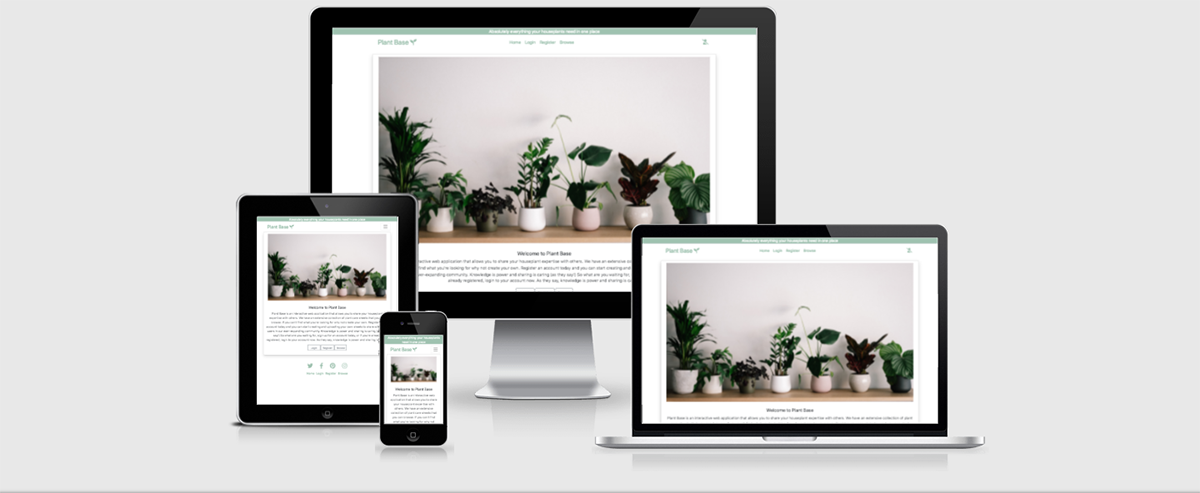
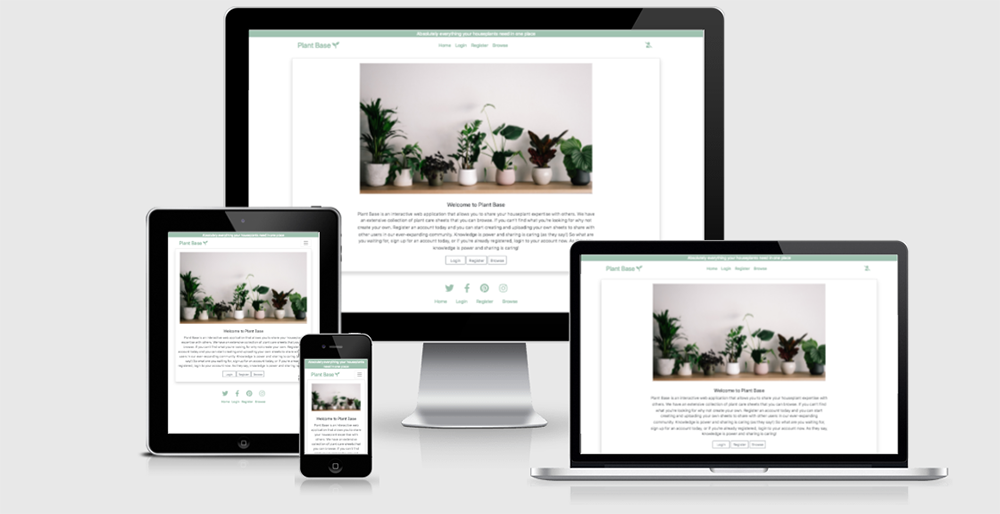
Changed README.md and TESTING.md, tidying up

diff --git a/templates/index.html b/templates/index.html
@@ -2,7 +2,7 @@
 {% block content %}
 <div class="container card bg-white shadow">
     <div class="row">
-        <div class=" text-black col text-center">
+        <div class=" text-black col-lg-8 mt-2 mx-auto text-center">
             <img src="/static/images/annie-spratt-cropped16x9.jpg" alt="image of houseplants" class="homepage-image">
         </div>
     </div>
@@ -10,7 +10,7 @@
             <div class="row">
             
 
-                <div class="mx-auto col card-box mt-2">
+                <div class="mx-auto col col-lg-8 card-box mt-2">
                     <h5 class="card-title text-center pt-2">Welcome to Plant Base</h5>
                     <p class="card-text text-center">
                         Plant Base is an interactive web application that allows you to share your houseplant expertise with others. 

diff --git a/README.md b/README.md
@@ -1,8 +1,30 @@
-README.md
-![Planr Base Mockup](static/images/am_I_responsive.png)
+# Plant Base    
+![Plant Base Mockup](static/images/am_I_responsive.png)
 
 
 [View deployed site here](http://plant-base-project.herokuapp.com/home)
+
+## __Table of Contents__
+1. [Introduction](#introduction)
+2. [User Experience](#user-experience)
+3. [User Experience](#user-experience)
+   - [User Stories](#user-stories)
+   - [Design Objectives](#design-objectives)
+   - [Design Choices](#design-choices)
+
+4. [Initial Planning](#initial-planning)
+   - [Wireframes](#wireframes)
+   - [Site Layout](#site-layout)
+   - [Database](#database)
+
+5. [Features](features)
+6. [Features left to implement](#features-left-to-implement)
+7. [Testing](#testing)
+8. [Deployment](#deployment)
+9. [Technologies Used](#technologies-used)
+10. [Credits](#credits)
+11. [Media and Content](#media-and-content)
+12. [Acknowledgements](#acknowledgements)
 
 ## Introduction
 The last 18 months have seen many of us confined to our homes for extended periods of time, and increasingly our homes are in urban settings with little or no green outside space. These are some of the reasons attributed to a recent surge in interest in houseplants. There are numerous benefits to keeping houseplants: they are relatively inexpensive; they allow us to connect with nature, they satisfy our primal urges to care and nurture, and in the uncertain times created by the global pandemic, they offer a sense of calm reassurance to many people. Best of all, you can talk to them  (and of course, they don’t answer you back!)
@@ -84,28 +106,28 @@ Here I will address the aims and goals of the application from both the perspect
 * Buttons - The sites buttons will all be Boostrap's 'Outline Secondary', again they have a neutrality that will compliment rather than distract from the sites color 
 * I have used Bootstrap's modals, cards, alerts and forms and responsive navbar, throughout the site to achieve a uniformity of design that is visually pleasing and responsive.
 
-### Initial Planning
+## Initial Planning
 
-#### Wireframes
+### Wireframes
 
 My initial wireframes can be seen [here](static/images/wireframes)
 
 I have largely stuck to my initial vision for the site in terms of the layout and design. Some features were not implemented due to practical time constraints. I detail this further in the 'features left to implement' section.
 
-#### Site Layout
+### Site Layout
 
 My initial layout and functionality plans can be seen [here](static/images/site_maps).
 These were really useful in developing and building the site. Again not all features were implemented and I elaborate on this in the features section.
 
-#### Database 
+### Database 
 
 I choose to use [MongoDB](https://www.mongodb.com/) to store and access all the data for the site.  
 My database schea plans can be viewed [here](static/images/site_maps).
 Initially I had planned to have two collections, one for the plant sheets and one for users, but this was expanded to three to include a categories collection in order to better group the sheets. For the purposes of this site, categories could have been part of the sheets collections, but with an eye on future facilitate scalibility it was added as a seperate collection.  MongoDB was the right choice for my purposes as there is not a lot of relational data sets, and the flexibility it offers is key.
 
-### Features
-
-#### Site Header and Footer
+## Features
+&nbsp; &nbsp; &nbsp; &nbsp; &nbsp; &nbsp; &nbsp; &nbsp; &nbsp; &nbsp; &nbsp; &nbsp; &nbsp; &nbsp; &nbsp; &nbsp; &nbsp; &nbsp; &nbsp; &nbsp; &nbsp; &nbsp; &nbsp; &nbsp;&nbsp; &nbsp; &nbsp; &nbsp; &nbsp; &nbsp; &nbsp; &nbsp; &nbsp; &nbsp; &nbsp; &nbsp; &nbsp; &nbsp; &nbsp; &nbsp; &nbsp; &nbsp; &nbsp; &nbsp; &nbsp; &nbsp; &nbsp; &nbsp; &nbsp; &nbsp; &nbsp; &nbsp; &nbsp; &nbsp; &nbsp;[Back to Top](#table-of-contents)
+### Site Header and Footer
 * Strap at the top of the site to frame he page and to deliver a headline of the sites aim
 * Site logo in the top left that links to the home page
 * Navigation menu - items change dependent on whether the user is logged in
@@ -265,7 +287,7 @@ web: python app.py
 ```
 
 * Push these 2 files to Github
-
+&nbsp; &nbsp; &nbsp; &nbsp; &nbsp; &nbsp; &nbsp; &nbsp; &nbsp; &nbsp; &nbsp; &nbsp; &nbsp; &nbsp; &nbsp; &nbsp; &nbsp; &nbsp; &nbsp; &nbsp; &nbsp; &nbsp; &nbsp; &nbsp;&nbsp; &nbsp; &nbsp; &nbsp; &nbsp; &nbsp; &nbsp; &nbsp; &nbsp; &nbsp; &nbsp; &nbsp; &nbsp; &nbsp; &nbsp; &nbsp; &nbsp; &nbsp; &nbsp; &nbsp; &nbsp; &nbsp; &nbsp; &nbsp; &nbsp; &nbsp; &nbsp; &nbsp; &nbsp; &nbsp; &nbsp;[Back to Top](#table-of-contents)
 ### Creating the Heroku App
 
 * Login to your Heroku account
@@ -309,7 +331,6 @@ In order to clone and run this project locally, you will need to follow these st
 Full details of these summarised steps can be found [here](https://docs.github.com/en/github/creating-cloning-and-archiving-repositories/cloning-a-repository)
 
 
-
 ## Technologies Used
 
 * HTML 5 
@@ -342,8 +363,7 @@ Full details of these summarised steps can be found [here](https://docs.github.c
 * [w3C](https://jigsaw.w3.org/css-validator/) 
 * [JSHint](https://jshint.com/)
 * [AutoPrefixer](https://autoprefixer.github.io/) 
-
-
+&nbsp; &nbsp; &nbsp; &nbsp; &nbsp; &nbsp; &nbsp; &nbsp; &nbsp; &nbsp; &nbsp; &nbsp; &nbsp; &nbsp; &nbsp; &nbsp; &nbsp; &nbsp; &nbsp; &nbsp; &nbsp; &nbsp; &nbsp; &nbsp;&nbsp; &nbsp; &nbsp; &nbsp; &nbsp; &nbsp; &nbsp; &nbsp; &nbsp; &nbsp; &nbsp; &nbsp; &nbsp; &nbsp; &nbsp; &nbsp; &nbsp; &nbsp; &nbsp; &nbsp; &nbsp; &nbsp; &nbsp; &nbsp; &nbsp; &nbsp; &nbsp; &nbsp; &nbsp; &nbsp; &nbsp;[Back to Top](#table-of-contents)
 
 ## Credits
 
@@ -355,6 +375,8 @@ Full details of these summarised steps can be found [here](https://docs.github.c
   * [Bootstrap](https://getbootstrap.com/)
   * [Stack Overflow](https://stackoverflow.com/) - (specific credits have been added as comment in the code)
   * [MDN](https://developer.mozilla.org/en-US/)
+  * [Flask Paginate](https://gist.github.com/mozillazg/69fb40067ae6d80386e10e105e6803c9)
+  * [Flask Documents](https://flask.palletsprojects.com/en/1.1.x/)
   * Duckett, J. 2011. HTML and CSS: Design and Build Websites. John Wiley & Sons Inc.
   * Duckett, J. 2014. Javascript & JQuery. John Wiley & Sons Inc.
 
@@ -370,6 +392,10 @@ Full details of these summarised steps can be found [here](https://docs.github.c
 * Audio [Zapsplat](https://www.zapsplat.com/)
 * Color choice [Colorhunt](https://colorhunt.co/)
                [Coolers] (https://www.coolers.co)
+* Content [Gardeneres World](https://www.gardenersworld.com/)
+* Content [RHS](https://www.rhs.org.uk/)
+* Content [TheSpruce](www.thespruce.com)
+
 
 ## Acknowledgements
 
@@ -380,4 +406,4 @@ Full details of these summarised steps can be found [here](https://docs.github.c
                           - [CocktailHour](https://github.com/AmyOShea/MS3-Cocktail-Hour)
 * Slack forums/webinars 
 
-
+&nbsp; &nbsp; &nbsp; &nbsp; &nbsp; &nbsp; &nbsp; &nbsp; &nbsp; &nbsp; &nbsp; &nbsp; &nbsp; &nbsp; &nbsp; &nbsp; &nbsp; &nbsp; &nbsp; &nbsp; &nbsp; &nbsp; &nbsp; &nbsp;&nbsp; &nbsp; &nbsp; &nbsp; &nbsp; &nbsp; &nbsp; &nbsp; &nbsp; &nbsp; &nbsp; &nbsp; &nbsp; &nbsp; &nbsp; &nbsp; &nbsp; &nbsp; &nbsp; &nbsp; &nbsp; &nbsp; &nbsp; &nbsp; &nbsp; &nbsp; &nbsp; &nbsp; &nbsp; &nbsp; &nbsp;[Back to Top](#table-of-contents)

diff --git a/TESTING.md b/TESTING.md
@@ -227,7 +227,7 @@ if request.method == "POST":
 ![supporting screenshot](https://github.com/AledPeart/plant-base/blob/main/static/images/owner-user-story-screenshot-2.png)
 
 
-
+&nbsp; &nbsp; &nbsp; &nbsp; &nbsp; &nbsp; &nbsp; &nbsp; &nbsp; &nbsp; &nbsp; &nbsp; &nbsp; &nbsp; &nbsp; &nbsp; &nbsp; &nbsp; &nbsp; &nbsp; &nbsp; &nbsp; &nbsp; &nbsp;&nbsp; &nbsp; &nbsp; &nbsp; &nbsp; &nbsp; &nbsp; &nbsp; &nbsp; &nbsp; &nbsp; &nbsp; &nbsp; &nbsp; &nbsp; &nbsp; &nbsp; &nbsp; &nbsp; &nbsp; &nbsp; &nbsp; &nbsp; &nbsp; &nbsp; &nbsp; &nbsp; &nbsp; &nbsp; &nbsp; &nbsp;[Back to Top](#table-of-contents)
 ## Manual Functionality Testing
 
 
@@ -586,7 +586,7 @@ __Result__– The result was as expected.
 __Result__– The result was as expected.
 
 * __Test__– Do the flashed messages close by themselves after the set time of 3 seconds?   
-__Result__– The result was as expected.
+__Result__– The result was as expected.&nbsp; &nbsp; &nbsp; &nbsp; &nbsp; &nbsp; &nbsp; &nbsp; &nbsp; &nbsp; &nbsp; &nbsp; &nbsp; &nbsp; &nbsp; &nbsp; &nbsp; &nbsp; &nbsp; &nbsp; &nbsp; &nbsp; &nbsp; &nbsp;&nbsp; &nbsp; &nbsp; &nbsp; &nbsp; &nbsp; &nbsp; &nbsp; &nbsp; &nbsp; &nbsp; &nbsp; &nbsp; &nbsp; &nbsp; &nbsp; &nbsp; &nbsp; &nbsp; &nbsp; &nbsp; &nbsp; &nbsp; &nbsp; &nbsp; &nbsp; &nbsp; &nbsp; &nbsp; &nbsp; &nbsp;[Back to Top](#table-of-contents)
 
 ## Responsiveness
 
@@ -662,12 +662,9 @@ Register
 View Page     
 ![View Page](static/images/view-page-lighthouse.png)    
 
- 
+&nbsp; &nbsp; &nbsp; &nbsp; &nbsp; &nbsp; &nbsp; &nbsp; &nbsp; &nbsp; &nbsp; &nbsp; &nbsp; &nbsp; &nbsp; &nbsp; &nbsp; &nbsp; &nbsp; &nbsp; &nbsp; &nbsp; &nbsp; &nbsp;&nbsp; &nbsp; &nbsp; &nbsp; &nbsp; &nbsp; &nbsp; &nbsp; &nbsp; &nbsp; &nbsp; &nbsp; &nbsp; &nbsp; &nbsp; &nbsp; &nbsp; &nbsp; &nbsp; &nbsp; &nbsp; &nbsp; &nbsp; &nbsp; &nbsp; &nbsp; &nbsp; &nbsp; &nbsp; &nbsp; &nbsp;[Back to Top](#table-of-contents)
 
-
-
-
-## Testing Results and Bugs
+## Testing Results and Bugs 
 
 I was regularly testing my code during the development process and as such a number of bugs and errors were found and fixed that way. I have detailed the more significant ones here, and those that were found during testing, as well as some that are as yet unresolved.
 
@@ -746,8 +743,8 @@ It was pointed out to me by my mentor that certain pages allowed users who were 
 I was receiving the above error when my search results were large enough to be paginated. I spent a lot of time trying to solve this including removing and re-installing the search indexes in MongoDB. I eventually found the cause was the query not being passed through properly to the second paginated page and beyond. The solution came from a fellow student on slack who had encountered the same thing on his project !( https://github.com/Edb83/self-isolution) The solution involved redefining the query variable and in the search function to ```query = request.args.get("query")```, as well as removing the "POST" and "GET" methods completely and changing the method in the search form from "POST" to "GET".
 
 
-### Unresolved Bugs
-
+### Unresolved Bugs 
+&nbsp; &nbsp; &nbsp; &nbsp; &nbsp; &nbsp; &nbsp; &nbsp; &nbsp; &nbsp; &nbsp; &nbsp; &nbsp; &nbsp; &nbsp; &nbsp; &nbsp; &nbsp; &nbsp; &nbsp; &nbsp; &nbsp; &nbsp; &nbsp;&nbsp; &nbsp; &nbsp; &nbsp; &nbsp; &nbsp; &nbsp; &nbsp; &nbsp; &nbsp; &nbsp; &nbsp; &nbsp; &nbsp; &nbsp; &nbsp; &nbsp; &nbsp; &nbsp; &nbsp; &nbsp; &nbsp; &nbsp; &nbsp; &nbsp; &nbsp; &nbsp; &nbsp; &nbsp; &nbsp; &nbsp;[Back to Top](#table-of-contents)
 #### Image URL Validation
 
 A huge learning experience for me as part of this project has been attempting to implement effective validation of the user inputted image URLs. The challenges were threefold. Firstly to ensure that the users were inputting a valid URL, secondly that the URL was linked to an actual image, and if it was not (if it was broken for example or if there were an error) to ensure that a default placeholder image was loaded. 
